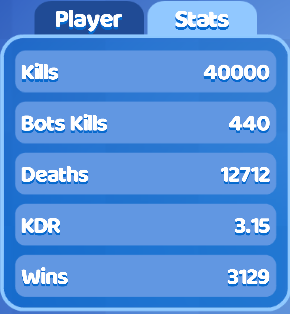
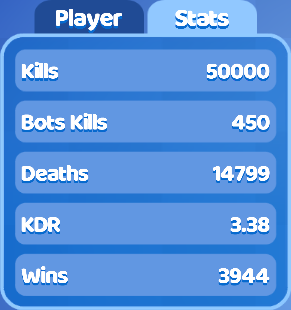
Updated RedSmasher, Waris Ja, Fubster

diff --git a/script.js b/script.js
@@ -8,11 +8,11 @@ const player = [
                      '356'],
                     ['Images/Screenshots/Waris Ja.png',
                      'Waris Ja',
-                     '3.15',
-                     '40,000',
-                     '440',
-                     '12,712',
-                     '3,129'],
+                     '3.38',
+                     '50,000',
+                     '450',
+                     '14,799',
+                     '3,944'],
                     ['Images/Screenshots/Eli.png',
                      'Eli',
                      '3.10',
@@ -268,11 +268,11 @@ const player = [
                       '441'],
                      ['Images/Screenshots/Fubster.png',
                       'Fubster',
-                      '1.32',
-                      '5,240',
-                      '52',
-                      '3,956',
-                      '241'],
+                      '1.35',
+                      '6,045',
+                      '53',
+                      '4,493',
+                      '284'],
                      ['Images/Screenshots/KI123NG.png',
                       'KI123NG',
                       '1.30',
@@ -301,6 +301,13 @@ const player = [
                       '75',
                       '1,483',
                       '57'],
+                     ['Images/Screenshots/RedSmasher.png',
+                      'RedSmasher',
+                      '1.16',
+                      '1,703',
+                      '299',
+                      '1,462',
+                      '78'],
                      ['Images/Screenshots/icybullet.png',
                       'icybullet',
                       '1.15',
@@ -322,13 +329,6 @@ const player = [
                       '37',
                       '884',
                       '44'],
-                     ['Images/Screenshots/RedSmasher.png',
-                      'RedSmasher',
-                      '1.12',
-                      '1,419',
-                      '252',
-                      '1,270',
-                      '59'],
                      ['Images/Screenshots/SombreroCat2.png',
                       'SombreroCat2',
                       '1.10',

diff --git a/index.html b/index.html
@@ -22,7 +22,7 @@
             <script>fillGrid()</script>
         </div>
 
-        <div id="update">Last updated: 4/27/2021</div>
+        <div id="update">Last updated: 4/28/2021</div>
 
         <p>To be included in the leaderboard, or to update your stats, please DM haedcase 
             <a href="http://discordapp.com/users/696072046374813776"><i class="fab fa-discord" id="discordLink"></i></a> 
